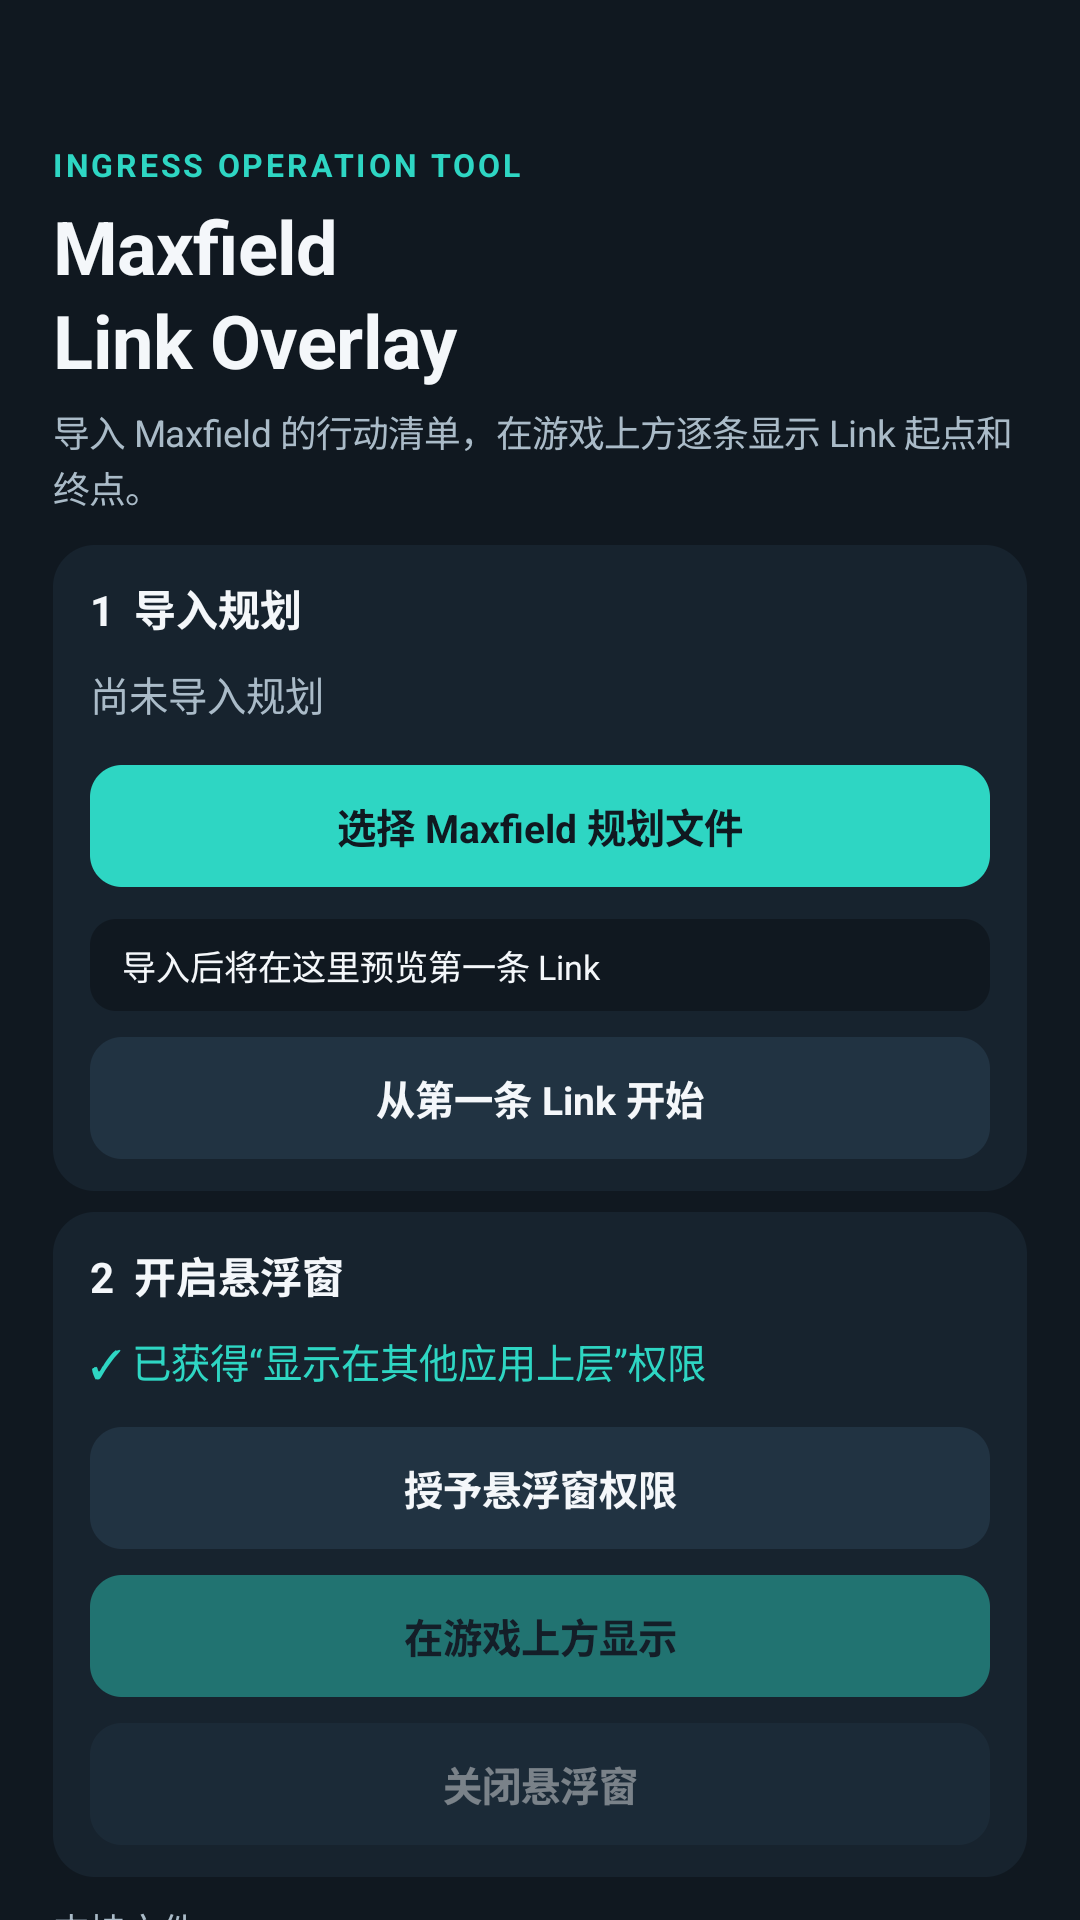
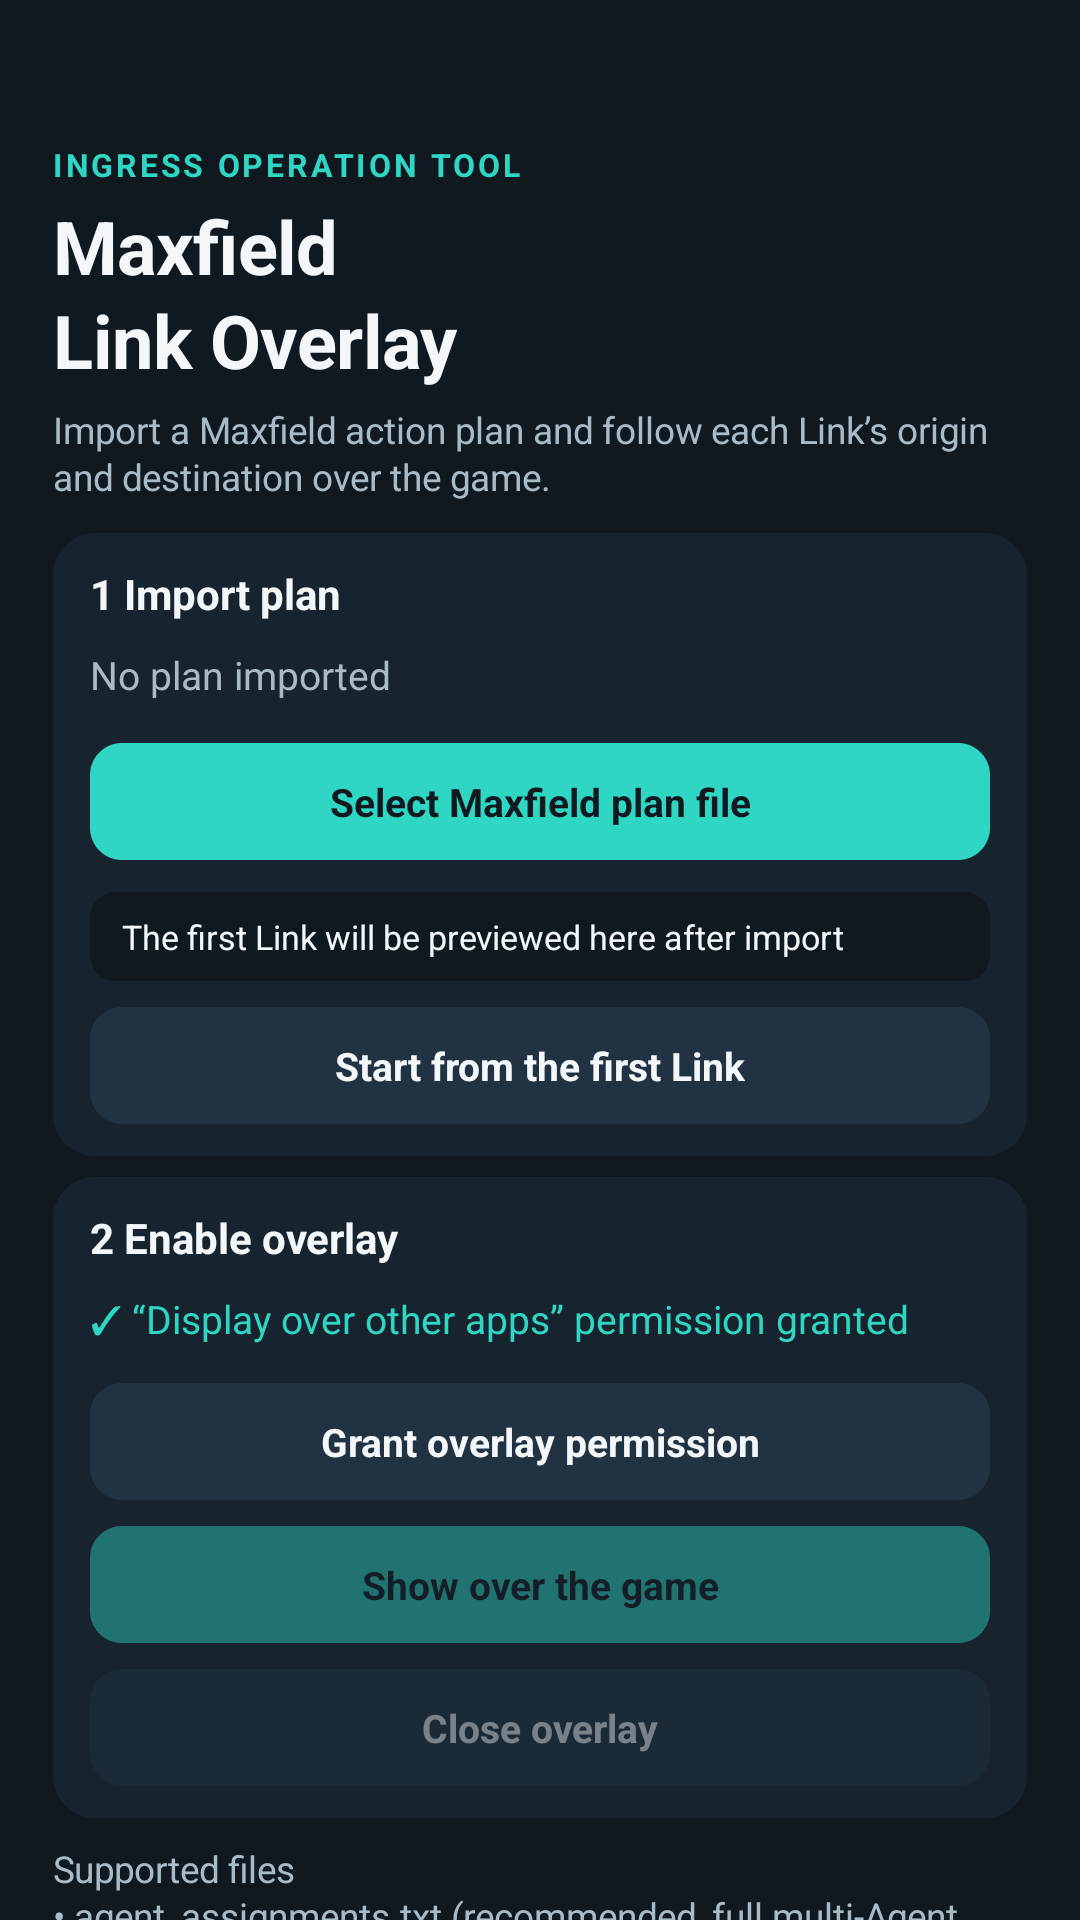
Add English localization and F-Droid release assets

diff --git a/app/src/main/java/io/github/xclear0/maxfieldoverlay/MainActivity.java b/app/src/main/java/io/github/xclear0/maxfieldoverlay/MainActivity.java
@@ -93,13 +93,12 @@ public final class MainActivity extends Activity {
             });
         }
 
-        TextView eyebrow = Ui.text(this, """
-                INGRESS OPERATION TOOL""", 12, Ui.ACCENT);
+        TextView eyebrow = Ui.text(this, getString(R.string.main_eyebrow), 12, Ui.ACCENT);
         eyebrow.setTypeface(Typeface.DEFAULT, Typeface.BOLD);
         eyebrow.setLetterSpacing(0.12f);
         root.addView(eyebrow);
 
-        TextView title = Ui.text(this, "Maxfield\nLink Overlay", 28, Ui.PRIMARY);
+        TextView title = Ui.text(this, getString(R.string.main_title), 28, Ui.PRIMARY);
         title.setTypeface(Typeface.DEFAULT, Typeface.BOLD);
         LinearLayout.LayoutParams titleParams = fullWidth();
         titleParams.topMargin = Ui.dp(this, 4);
@@ -107,7 +106,7 @@ public final class MainActivity extends Activity {
 
         TextView description = Ui.text(
                 this,
-                "导入 Maxfield 的行动清单，在游戏上方逐条显示 Link 起点和终点。",
+                getString(R.string.main_description),
                 14,
                 Ui.SECONDARY);
         LinearLayout.LayoutParams descriptionParams = fullWidth();
@@ -119,16 +118,16 @@ public final class MainActivity extends Activity {
         planCardParams.topMargin = Ui.dp(this, 12);
         root.addView(planCard, planCardParams);
 
-        TextView planLabel = sectionLabel("1  导入规划");
+        TextView planLabel = sectionLabel(getString(R.string.section_import_plan));
         planCard.addView(planLabel);
 
-        planStatus = Ui.text(this, "尚未导入规划", 15, Ui.SECONDARY);
+        planStatus = Ui.text(this, getString(R.string.plan_status_none), 15, Ui.SECONDARY);
         LinearLayout.LayoutParams statusParams = fullWidth();
         statusParams.topMargin = Ui.dp(this, 10);
         planCard.addView(planStatus, statusParams);
 
-        Button importButton = Ui.button(this, "选择 Maxfield 规划文件", true);
-        importButton.setContentDescription("导入 Maxfield 规划文件");
+        Button importButton = Ui.button(this, getString(R.string.select_plan_file), true);
+        importButton.setContentDescription(getString(R.string.import_plan_content_description));
         importButton.setOnClickListener(view -> choosePlan());
         LinearLayout.LayoutParams importParams = fullWidth();
         importParams.topMargin = Ui.dp(this, 16);
@@ -141,7 +140,7 @@ public final class MainActivity extends Activity {
         previewParams.topMargin = Ui.dp(this, 12);
         planCard.addView(preview, previewParams);
 
-        Button resetButton = Ui.button(this, "从第一条 Link 开始", false);
+        Button resetButton = Ui.button(this, getString(R.string.reset_to_first_link), false);
         resetButton.setOnClickListener(view -> {
             PlanRepository.setIndex(this, 0);
             if (OverlayService.isRunning()) {
@@ -158,25 +157,25 @@ public final class MainActivity extends Activity {
         overlayCardParams.topMargin = Ui.dp(this, 8);
         root.addView(overlayCard, overlayCardParams);
 
-        overlayCard.addView(sectionLabel("2  开启悬浮窗"));
+        overlayCard.addView(sectionLabel(getString(R.string.section_enable_overlay)));
         permissionStatus = Ui.text(this, "", 15, Ui.SECONDARY);
         LinearLayout.LayoutParams permissionParams = fullWidth();
         permissionParams.topMargin = Ui.dp(this, 10);
         overlayCard.addView(permissionStatus, permissionParams);
 
-        Button permissionButton = Ui.button(this, "授予悬浮窗权限", false);
+        Button permissionButton = Ui.button(this, getString(R.string.grant_overlay_permission), false);
         permissionButton.setOnClickListener(view -> openOverlaySettings(false));
         LinearLayout.LayoutParams permissionButtonParams = fullWidth();
         permissionButtonParams.topMargin = Ui.dp(this, 14);
         overlayCard.addView(permissionButton, permissionButtonParams);
 
-        startButton = Ui.button(this, "在游戏上方显示", true);
+        startButton = Ui.button(this, getString(R.string.show_over_game), true);
         startButton.setOnClickListener(view -> prepareAndStartOverlay());
         LinearLayout.LayoutParams startParams = fullWidth();
         startParams.topMargin = Ui.dp(this, 10);
         overlayCard.addView(startButton, startParams);
 
-        stopButton = Ui.button(this, "关闭悬浮窗", false);
+        stopButton = Ui.button(this, getString(R.string.close_overlay), false);
         stopButton.setOnClickListener(view -> sendOverlayAction(OverlayService.ACTION_STOP));
         LinearLayout.LayoutParams stopParams = fullWidth();
         stopParams.topMargin = Ui.dp(this, 10);
@@ -184,13 +183,7 @@ public final class MainActivity extends Activity {
 
         TextView tips = Ui.text(
                 this,
-                """
-                        支持文件
-                        • agent_assignments.txt（推荐，多 Agent 总顺序）
-                        • agent_N_assignment.txt（只看某位 Agent）
-                        • agent_assignments.csv
-
-                        悬浮窗顶部可拖动；上一条/下一条会自动保存当前位置。切回本应用可重置进度或关闭悬浮窗。""",
+                getString(R.string.supported_files_help),
                 14,
                 Ui.SECONDARY);
         LinearLayout.LayoutParams tipsParams = fullWidth();
@@ -273,7 +266,7 @@ public final class MainActivity extends Activity {
             if (OverlayService.isRunning()) {
                 sendOverlayAction(OverlayService.ACTION_RELOAD);
             }
-            Toast.makeText(this, "已导入 " + steps.size() + " 条 Link", Toast.LENGTH_LONG).show();
+            Toast.makeText(this, getString(R.string.plan_imported, steps.size()), Toast.LENGTH_LONG).show();
             updateScreen();
         } catch (IOException | SecurityException error) {
             Toast.makeText(this, error.getMessage(), Toast.LENGTH_LONG).show();
@@ -295,13 +288,13 @@ public final class MainActivity extends Activity {
         } catch (RuntimeException ignored) {
             // A document provider may not expose a display name.
         }
-        return "Maxfield 规划";
+        return getString(R.string.default_plan_name);
     }
 
     private void prepareAndStartOverlay() {
         PlanRepository.PlanData plan = PlanRepository.loadPlan(this);
         if (plan.steps.isEmpty()) {
-            Toast.makeText(this, "请先导入规划文件", Toast.LENGTH_SHORT).show();
+            Toast.makeText(this, R.string.import_plan_first, Toast.LENGTH_SHORT).show();
             return;
         }
         if (!Settings.canDrawOverlays(this)) {
@@ -334,7 +327,7 @@ public final class MainActivity extends Activity {
         Intent intent = new Intent(this, OverlayService.class);
         intent.setAction(OverlayService.ACTION_SHOW);
         startForegroundService(intent);
-        Toast.makeText(this, "悬浮窗已开启，可切换到游戏", Toast.LENGTH_SHORT).show();
+        Toast.makeText(this, R.string.overlay_started, Toast.LENGTH_SHORT).show();
         updateScreen();
     }
 
@@ -365,8 +358,8 @@ public final class MainActivity extends Activity {
 
         boolean permission = Settings.canDrawOverlays(this);
         permissionStatus.setText(permission
-                ? "✓ 已获得“显示在其他应用上层”权限"
-                : "需要“显示在其他应用上层”权限");
+                ? R.string.overlay_permission_granted
+                : R.string.overlay_permission_required);
         permissionStatus.setTextColor(permission ? Ui.ACCENT : Ui.SECONDARY);
         startButton.setEnabled(!plan.steps.isEmpty());
         startButton.setAlpha(plan.steps.isEmpty() ? 0.45f : 1f);

diff --git a/app/src/main/java/io/github/xclear0/maxfieldoverlay/OverlayService.java b/app/src/main/java/io/github/xclear0/maxfieldoverlay/OverlayService.java
@@ -76,14 +76,14 @@ public final class OverlayService extends Service {
 
         startForeground(NOTIFICATION_ID, buildNotification(null));
         if (!Settings.canDrawOverlays(this)) {
-            Toast.makeText(this, "悬浮窗权限已被关闭", Toast.LENGTH_LONG).show();
+            Toast.makeText(this, R.string.overlay_permission_revoked, Toast.LENGTH_LONG).show();
             stopOverlay();
             return START_NOT_STICKY;
         }
 
         reloadPlan();
         if (steps.isEmpty()) {
-            Toast.makeText(this, "没有可显示的 Link", Toast.LENGTH_LONG).show();
+            Toast.makeText(this, R.string.overlay_no_links, Toast.LENGTH_LONG).show();
             stopOverlay();
             return START_NOT_STICKY;
         }
@@ -136,7 +136,10 @@ public final class OverlayService extends Service {
         } catch (RuntimeException error) {
             overlay = null;
             running = false;
-            Toast.makeText(this, "无法创建悬浮窗：" + error.getMessage(), Toast.LENGTH_LONG).show();
+            Toast.makeText(
+                    this,
+                    getString(R.string.overlay_create_failed, error.getMessage()),
+                    Toast.LENGTH_LONG).show();
             stopSelf();
         }
     }
@@ -185,13 +188,13 @@ public final class OverlayService extends Service {
         progressView = Ui.text(this, "", 13, Ui.ACCENT);
         progressView.setTypeface(Typeface.DEFAULT, Typeface.BOLD);
         progressView.setLetterSpacing(0.04f);
-        progressView.setContentDescription("拖动悬浮窗");
+        progressView.setContentDescription(getString(R.string.overlay_drag_description));
         header.addView(progressView, new LinearLayout.LayoutParams(
                 0, ViewGroup.LayoutParams.WRAP_CONTENT, 1f));
 
         TextView minimize = Ui.text(this, "—", 20, Ui.SECONDARY);
         minimize.setGravity(Gravity.CENTER);
-        minimize.setContentDescription("收起悬浮窗");
+        minimize.setContentDescription(getString(R.string.overlay_minimize_description));
         minimize.setPadding(Ui.dp(this, 12), 0, Ui.dp(this, 6), 0);
         minimize.setOnClickListener(view -> minimize());
         header.addView(minimize, new LinearLayout.LayoutParams(
@@ -199,7 +202,7 @@ public final class OverlayService extends Service {
 
         TextView close = Ui.text(this, "×", 25, Ui.SECONDARY);
         close.setGravity(Gravity.CENTER);
-        close.setContentDescription("关闭悬浮窗");
+        close.setContentDescription(getString(R.string.overlay_close_description));
         close.setPadding(Ui.dp(this, 6), 0, 0, 0);
         close.setOnClickListener(view -> stopOverlay());
         header.addView(close, new LinearLayout.LayoutParams(
@@ -234,16 +237,16 @@ public final class OverlayService extends Service {
         controlsParams.topMargin = Ui.dp(this, 12);
         root.addView(controls, controlsParams);
 
-        previousButton = Ui.button(this, "‹  上一条", false);
-        previousButton.setContentDescription("显示上一条 Link");
+        previousButton = Ui.button(this, getString(R.string.overlay_previous), false);
+        previousButton.setContentDescription(getString(R.string.overlay_previous_description));
         previousButton.setOnClickListener(view -> moveBy(-1));
         LinearLayout.LayoutParams previousParams = new LinearLayout.LayoutParams(
                 0, ViewGroup.LayoutParams.WRAP_CONTENT, 1f);
         previousParams.rightMargin = Ui.dp(this, 5);
         controls.addView(previousButton, previousParams);
 
-        nextButton = Ui.button(this, "下一条  ›", true);
-        nextButton.setContentDescription("显示下一条 Link");
+        nextButton = Ui.button(this, getString(R.string.overlay_next), true);
+        nextButton.setContentDescription(getString(R.string.overlay_next_description));
         nextButton.setOnClickListener(view -> moveBy(1));
         LinearLayout.LayoutParams nextParams = new LinearLayout.LayoutParams(
                 0, ViewGroup.LayoutParams.WRAP_CONTENT, 1f);
@@ -534,7 +537,7 @@ public final class OverlayService extends Service {
                 PendingIntent.FLAG_UPDATE_CURRENT | PendingIntent.FLAG_IMMUTABLE);
 
         String detail = step == null
-                ? "正在载入规划…"
+                ? getString(R.string.notification_loading)
                 : step.originName + " → " + step.destinationName;
         return new Notification.Builder(this, CHANNEL_ID)
                 .setSmallIcon(R.drawable.ic_link)

diff --git a/app/src/main/java/io/github/xclear0/maxfieldoverlay/PlanRepository.java b/app/src/main/java/io/github/xclear0/maxfieldoverlay/PlanRepository.java
@@ -62,7 +62,9 @@ final class PlanRepository {
             for (int i = 0; i < array.length(); i++) {
                 steps.add(LinkStep.fromJson(array.getJSONObject(i)));
             }
-            return new PlanData(root.optString("displayName", "Maxfield 规划"), steps);
+            return new PlanData(
+                    root.optString("displayName", context.getString(R.string.default_plan_name)),
+                    steps);
         } catch (FileNotFoundException ignored) {
             return PlanData.empty();
         } catch (IOException | JSONException ignored) {

diff --git a/store-assets/google-play/README.md b/store-assets/google-play/README.md
@@ -65,7 +65,7 @@ Upload the video to YouTube as unlisted and paste its URL into the Play Console 
 - Phone screenshots: `fastlane/metadata/android/<locale>/images/phoneScreenshots/` (4 images, 1080 × 1920)
 - Localized title and descriptions: `fastlane/metadata/android/<locale>/`
 
-The English listing currently uses screenshots of the app's Chinese interface because the app UI is Chinese. Use `zh-CN` as the default listing so the screenshots accurately represent the installed app.
+The `en-US` and `zh-CN` directories contain matching screenshots for the app's English and Simplified Chinese interfaces.
 
 ## Release bundle
 
@@ -87,4 +87,4 @@ Before the first Play rollout, decide whether Play should use the existing app s
 3. Complete Ads, App access, Data safety, Target audience, Content rating, and Foreground service declarations using the answers above.
 4. Upload the signed AAB to Internal testing first and resolve every Play pre-launch warning.
 5. If this is a personal developer account subject to the testing requirement, run the required closed test before requesting production access.
-6. Add release notes from `fastlane/metadata/android/<locale>/changelogs/4.txt`, choose countries/regions, and submit the rollout for review.
+6. Add release notes from `fastlane/metadata/android/<locale>/changelogs/5.txt`, choose countries/regions, and submit the rollout for review.

diff --git a/README.md b/README.md
@@ -14,6 +14,7 @@ Maxfield 已生成的 Link 行动清单，并在其他应用上方显示当前 L
 - 拖动悬浮窗并保存位置；
 - 自动保存当前 Link 进度，重新打开后继续；
 - 常驻通知显示当前 Link，并提供关闭入口；
+- 根据系统语言显示英文或简体中文界面；
 - 不联网、不读取游戏账号、不自动操作游戏。
 
 ## 使用方法
@@ -90,8 +91,8 @@ gh auth login --hostname github.com --web
 发布新版本时，先递增 `versionCode` 并修改 `versionName`，提交并推送，然后创建同版本标签。例如：
 
 ```powershell
-git tag -a v1.2.1 -m "Maxfield Link Overlay v1.2.1"
-git push origin v1.2.1
+git tag -a v1.2.2 -m "Maxfield Link Overlay v1.2.2"
+git push origin v1.2.2
 ```
 
 不要删除或重新生成发布 keystore；后续更新必须继续使用同一套签名密钥。
